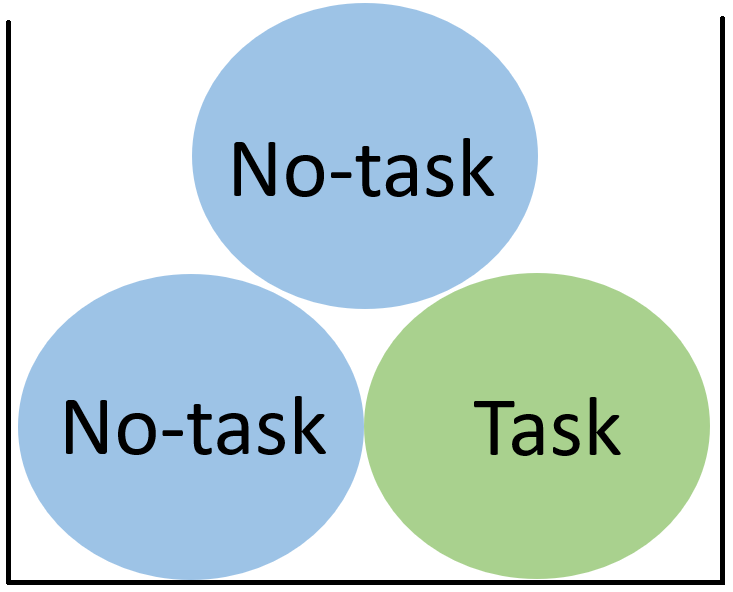
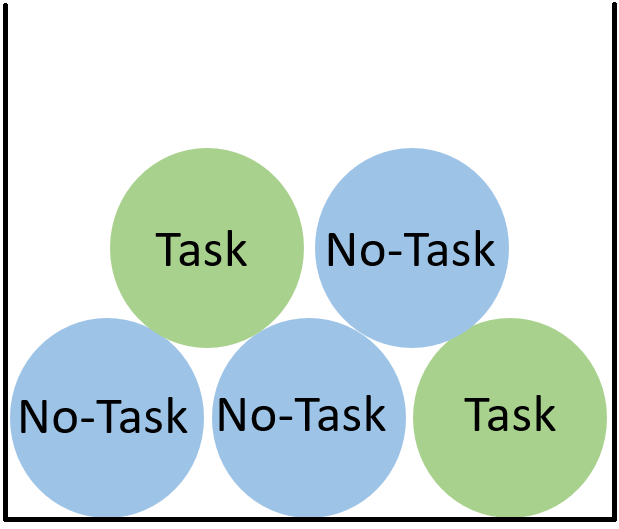
Updated prior, made maths tasks easier

diff --git a/Intro/Instructions.html b/Intro/Instructions.html
@@ -10,14 +10,14 @@
 <p>There are three stages. The first stage is the Draw, which determines whether you have to do a maths task or get to skip it. The second stage is the Task, a series of maths questions. The third stage is the Offer, where you must propose a division of some money between yourself and a "receiver".</p>
 <p><br></p>
 <p><h5>The Draw</h5></p>
-<p>Look at the picture of the box below. There are three balls in it. Two of them are No-task balls, and one of them is a Task ball.</p>
-<p>In the first stage of this activity, the computer running this application will randomly select one of the balls. If the computer pulls out the Task ball, you must go on to the second stage and do the maths task. If the computer pulls out a No-task balls, you will skip the task and go directly to the third stage, the Offer.</p>
+<p>Look at the picture of the box below. There are five balls in it. Three of them are No-task balls, and two of them are Task balls.</p>
+<p>In the first stage of this activity, the computer running this application will randomly select one of the balls. If the computer pulls out a Task ball, you must go on to the second stage and do the maths task. If the computer pulls out a No-task balls, you will skip the task and go directly to the third stage, the Offer.</p>
 <br>
-<img align=centre src="{% static 'Balls.png' %}" width="25%" />
+<img align=centre src="{% static 'Balls.png' %}" width="30%" />
 <br>
 <br>
 <p><h5>The Task</h5></p>
-<p>The maths task contains four questions. You must answer them all in eight minutes. If you get three or more right, you will earn {{Constants.money}}. If you get less than three right you will receive a {{Constants.compensation}} payoff and the activity will end.</p>
+<p>The maths task contains four questions. You must answer them all in six minutes. If you get three or more right, you will earn {{Constants.money}}. If you get less than three right you will receive a {{Constants.compensation}} payoff and the activity will end.</p>
 <p><br></p>
 <p><h5>The Offer</h5></p>
 <p>If you get to stage three you will have to propose a division of {{Constants.money}} between yourself and a randomly chosen receiver.</p>

diff --git a/Task/__init__.py b/Task/__init__.py
@@ -23,9 +23,9 @@ class Group(BaseGroup):
 
 class Player(BasePlayer):
     q1 = models.StringField(
-        label = "A shop has an offer: buy 8 kiwis, and every extra kiwi after that is half price. A man goes to the shop and pays £5.50 for some kiwis. The full price of a kiwi is £0.50. How many does he buy?",
+        label = "A shop has an offer: buy 8 kiwis, and every extra kiwi after that is half price. A man goes to the shop and pays £4.50 for some kiwis. The full price of a kiwi is £0.50. How many does he buy?",
         choices = [
-            "14",
+            "9",
             "12",
             "10",
             "15"
@@ -33,12 +33,12 @@ class Player(BasePlayer):
         widget = widgets.RadioSelectHorizontal
     ) 
     q2 = models.StringField(
-        label = "Which of the following is equal to 3y(x - 3) - 2(x - 3)?",
+        label = "A hairdresser has an offer: every third visit is free. They charge £48 for a haircut. Last year Sarah paid £144 for a haaircut. How many times did she go?",
         choices = [
-            "3y(x - 3)",
-            "(x - 3)(3y - 2)",
-            "2y(x - 3)",
-            "(x - 3)(x - 3)"
+            "Two times",
+            "Three times",
+            "Four times",
+            "Five times"
         ],
         widget = widgets.RadioSelectHorizontal
     )     
@@ -53,7 +53,7 @@ class Player(BasePlayer):
         widget = widgets.RadioSelectHorizontal
     )   
     q4 = models.StringField(
-        label = "A trader takes a loan of £120, with 5 percent interest. They buy a painting for £120 and sell it for £189. The profit expressed as a percentage of total cost, including interest, is:",
+        label = "A trader buys a painting for £120 and sells it for £170. They pay a £10 transaction fee. Their profit expressed as a percentage of total cost is:",
         choices = [
             "50%",
             "60%",
@@ -72,7 +72,7 @@ class Task(Page):
     form_model = 'player'
 
     def get_timeout_seconds(player):
-        timeout_seconds = 8*60
+        timeout_seconds = 6*60
         return timeout_seconds    
 
     form_fields = [
@@ -88,13 +88,13 @@ class Task(Page):
         
         # tot up correct answers
         correct_answers = 0
-        if player.q1 == "14":
+        if player.q1 == "10":
             correct_answers = correct_answers + 1
-        if player.q2 == "(x - 3)(3y - 2)":
+        if player.q2 == "Four times":
             correct_answers = correct_answers + 1       
         if player.q3 == "10.50":
             correct_answers = correct_answers + 1 
-        if player.q4 == "50%":
+        if player.q4 == "33%":
             correct_answers = correct_answers + 1  
         player.correct_answers = correct_answers
         if correct_answers < 3:

diff --git a/Intro/__init__.py b/Intro/__init__.py
@@ -25,7 +25,7 @@ def creating_session(subsession):
     import random
     for player in subsession.get_players():         # iterate through the players
         prob = random.uniform(0,1)
-        if prob < 0.6667:
+        if prob < 0.6:
             player.participant.proposer_ball = 0
             player.Merit = "non-earner"
         else:

diff --git a/settings.py b/settings.py
@@ -14,7 +14,7 @@ SESSION_CONFIGS = [
 # e.g. self.session.config['participation_fee']
 
 SESSION_CONFIG_DEFAULTS = dict(
-    real_world_currency_per_point=1.00, participation_fee=3.00, doc=""
+    real_world_currency_per_point=1.00, participation_fee=2.50, doc=""
 )
 
 PARTICIPANT_FIELDS = [
